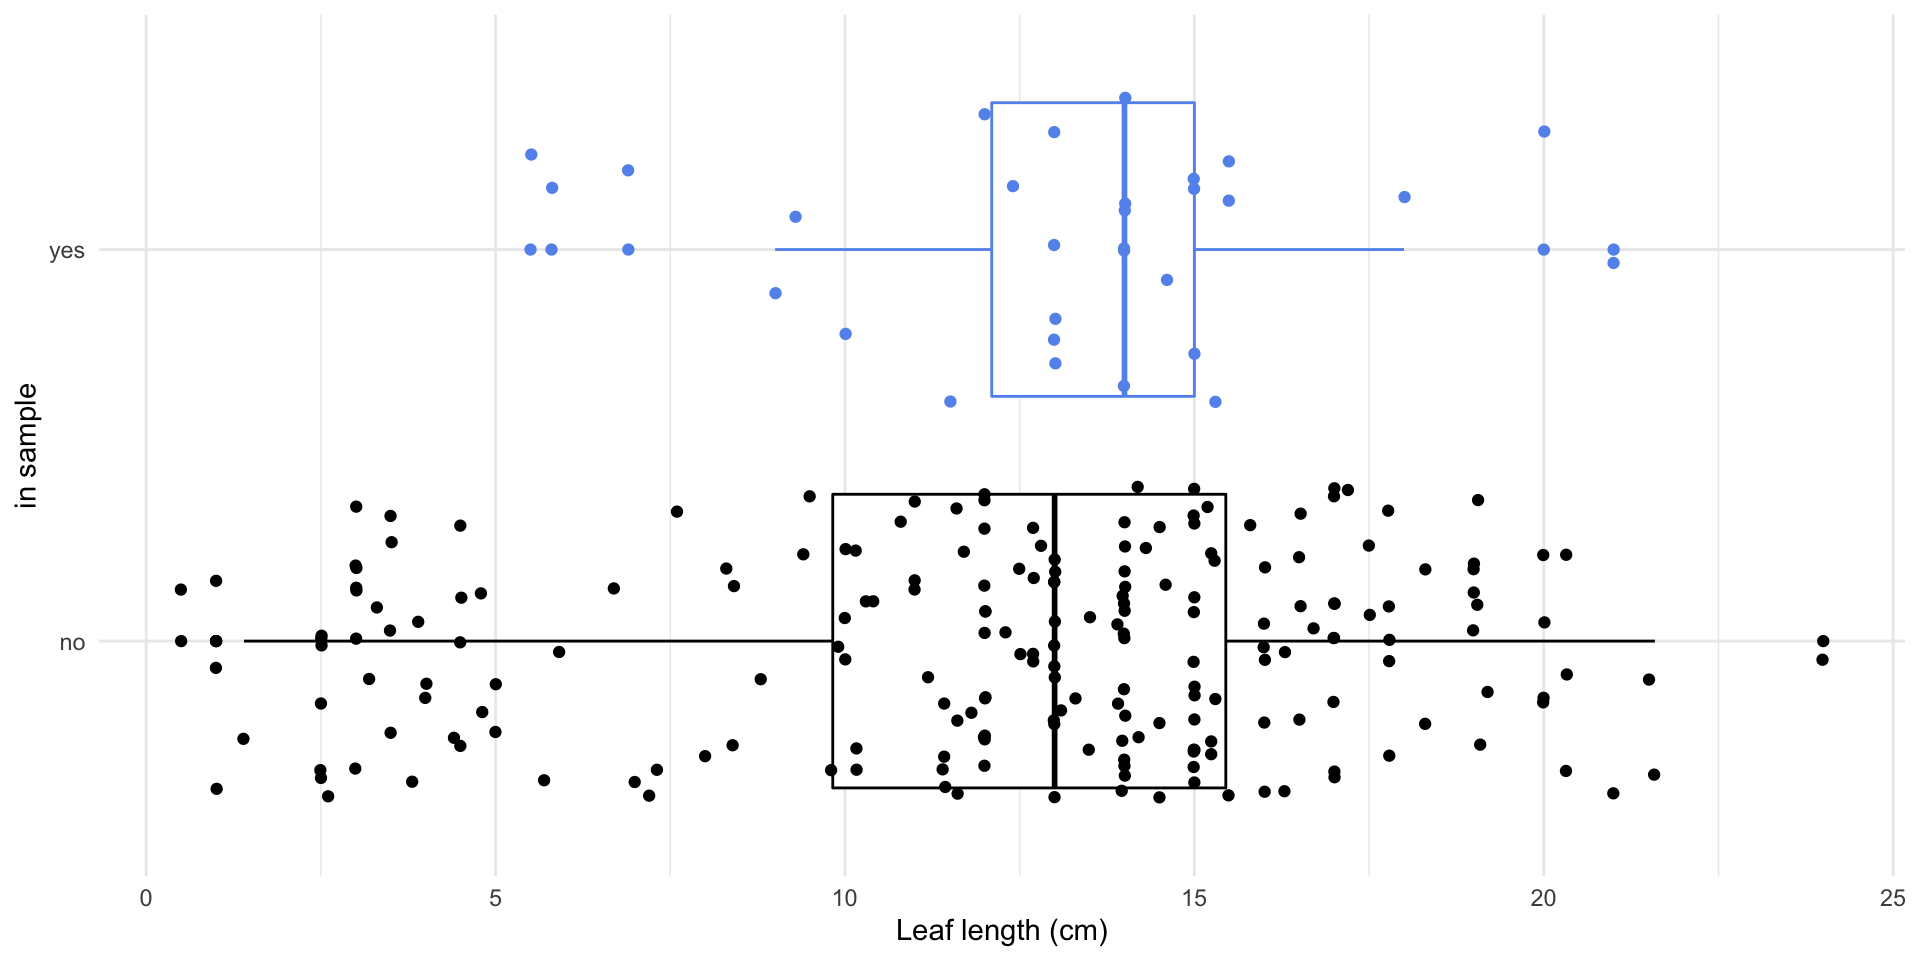
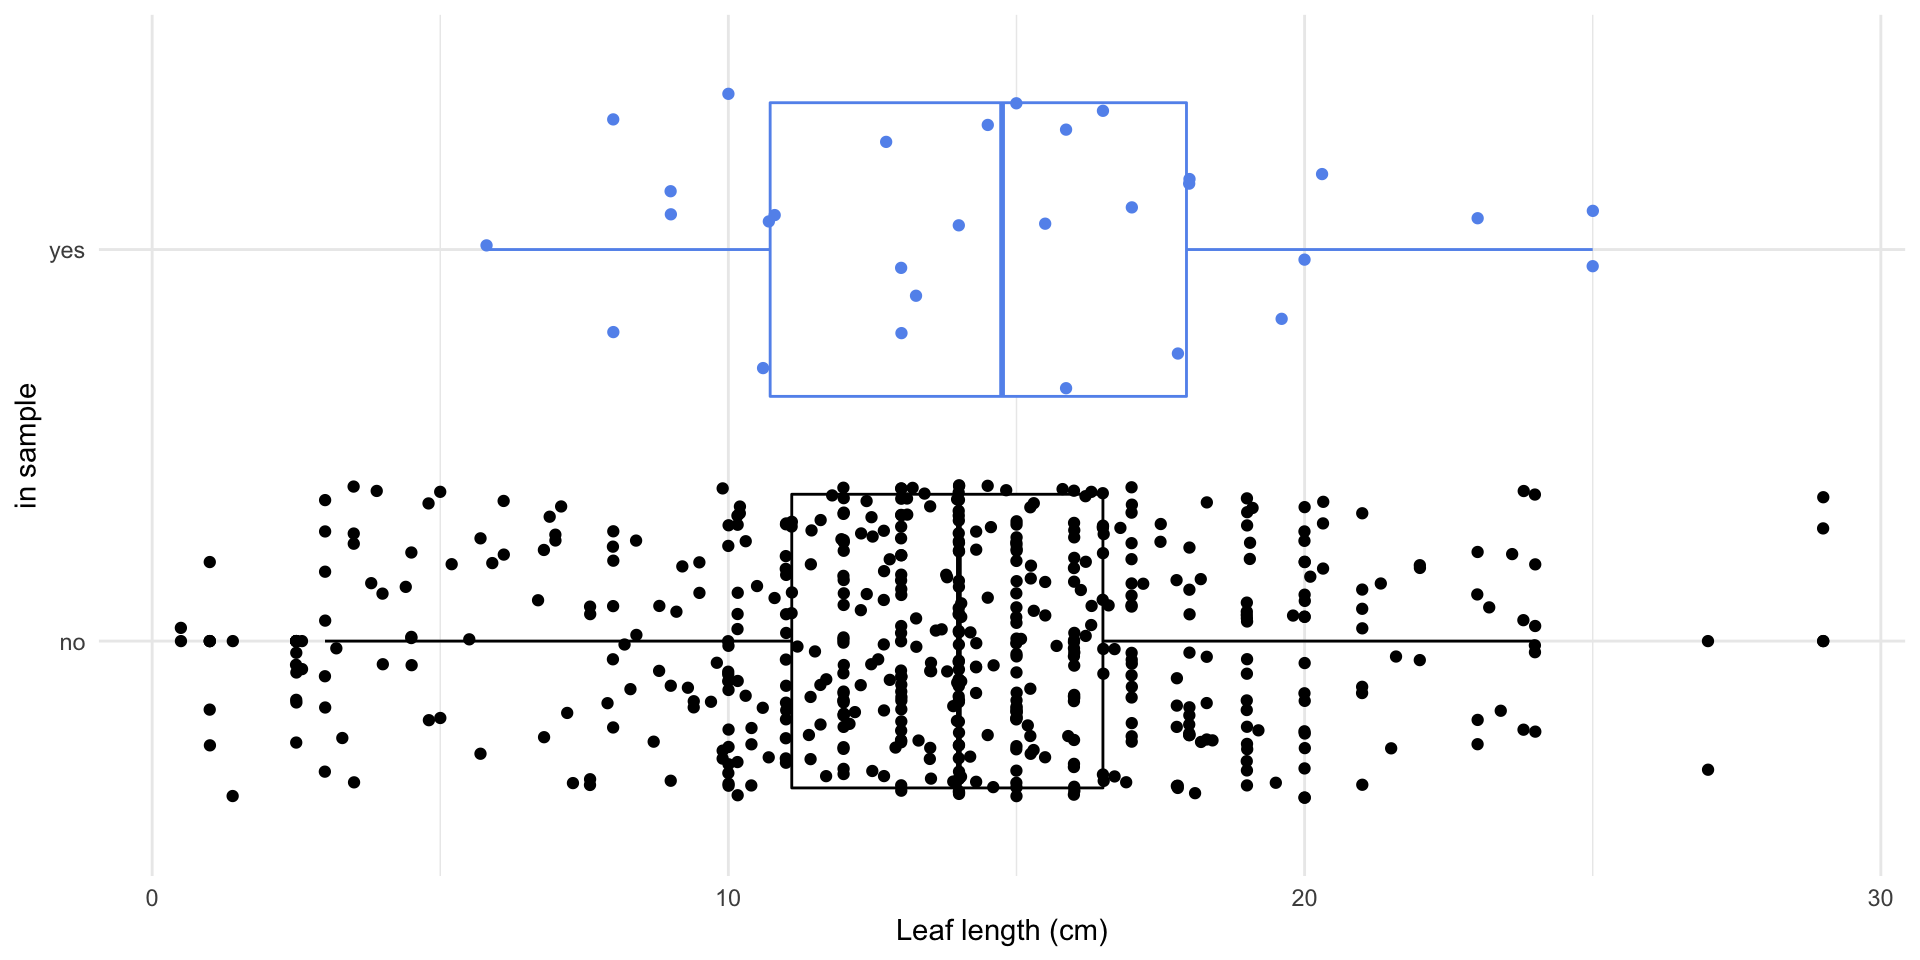
update

diff --git a/08-drawing-inference.html b/08-drawing-inference.html
@@ -401,19 +401,19 @@
 <div class="cell">
 <div class="sourceCode cell-code" id="cb1"><pre class="sourceCode numberSource r number-lines code-with-copy"><code class="sourceCode r"><span id="cb1-1"><a href="#cb1-1"></a>magnolia_data </span></code><button title="Copy to Clipboard" class="code-copy-button"><i class="bi"></i></button></pre></div>
 <div class="cell-output cell-output-stdout">
-<pre><code># A tibble: 30 × 6
-   observation leaf_length leaf_width in_sample sample  each
-         &lt;dbl&gt;       &lt;dbl&gt;      &lt;dbl&gt; &lt;chr&gt;      &lt;dbl&gt; &lt;dbl&gt;
- 1          27        15.3        7.9 no          2.9     30
- 2           6        14          9   no          6.2     30
- 3          28        13          4   no          4.93    30
- 4           1        12          7   no          6.03    30
- 5           2        21          7.5 no          2.07    30
- 6           1        12.4        4.2 yes         1.03    30
- 7          26        18         13   no          6.87    30
- 8          10        15.5        7.5 no          2.33    30
- 9          14        15          6   no          3.47    30
-10           8         6.9        5.3 no          1.27    30
+<pre><code># A tibble: 30 × 3
+   observation leaf_length leaf_width
+         &lt;dbl&gt;       &lt;dbl&gt;      &lt;dbl&gt;
+ 1          28        13         4   
+ 2          15        14        10   
+ 3           7         9         4   
+ 4          15        12.7       3.9 
+ 5          16        14.5       7.6 
+ 6          26        10.7       4.5 
+ 7          23        13.3       4.94
+ 8          23        10.6       6.8 
+ 9          30        10         6   
+10          16        20.3      10.2 
 # … with 20 more rows</code></pre>
 </div>
 </div>
@@ -449,7 +449,7 @@
 <details>
 <summary>Code</summary>
 <div class="sourceCode cell-code" id="cb3"><pre class="sourceCode numberSource r number-lines code-with-copy"><code class="sourceCode r"><span id="cb3-1"><a href="#cb3-1"></a><span class="fu">ggplot</span>(magnolia_data, <span class="fu">aes</span>(<span class="at">x =</span> leaf_length)) <span class="sc">+</span></span>
-<span id="cb3-2"><a href="#cb3-2"></a>  <span class="fu">geom_histogram</span>(<span class="at">bins =</span> <span class="dv">7</span>) <span class="sc">+</span> </span>
+<span id="cb3-2"><a href="#cb3-2"></a>  <span class="fu">geom_histogram</span>(<span class="at">bins =</span> <span class="dv">8</span>) <span class="sc">+</span> </span>
 <span id="cb3-3"><a href="#cb3-3"></a>  <span class="fu">labs</span>(<span class="at">x =</span> <span class="st">"Leaf length (cm)"</span>)</span></code><button title="Copy to Clipboard" class="code-copy-button"><i class="bi"></i></button></pre></div>
 </details>
 <div class="cell-output-display">
@@ -532,7 +532,7 @@
 <pre><code># A tibble: 1 × 1
   mean_length
         &lt;dbl&gt;
-1        13.2</code></pre>
+1        14.8</code></pre>
 </div>
 </div>
 <div class="cell quarto-layout-cell" style="flex-basis: 50.0%;justify-content: center;">
@@ -544,7 +544,7 @@ lm(formula = leaf_length ~ 1, data = magnolia_data)
 
 Coefficients:
 (Intercept)  
-      13.21  </code></pre>
+      14.83  </code></pre>
 </div>
 </div>
 </div>
@@ -582,16 +582,16 @@ Call:
 lm(formula = leaf_length ~ 1, data = magnolia_data)
 
 Residuals:
-   Min     1Q Median     3Q    Max 
- -7.71  -1.11   0.79   1.79   7.79 
+    Min      1Q  Median      3Q     Max 
+-9.0273 -4.1023 -0.0773  3.1227 10.1727 
 
 Coefficients:
             Estimate Std. Error t value Pr(&gt;|t|)    
-(Intercept)  13.2100     0.6456   20.46   &lt;2e-16 ***
+(Intercept)   14.827      0.912   16.26 4.14e-16 ***
 ---
 Signif. codes:  0 '***' 0.001 '**' 0.01 '*' 0.05 '.' 0.1 ' ' 1
 
-Residual standard error: 3.536 on 29 degrees of freedom</code></pre>
+Residual standard error: 4.995 on 29 degrees of freedom</code></pre>
 </div>
 </div>
 </section>
@@ -609,7 +609,7 @@ Residual standard error: 3.536 on 29 degrees of freedom</code></pre>
 </ol>
 <div class="cell">
 <div class="cell-output-display">
-<div class="countdown" id="timer_26cba7e1" data-update-every="1" tabindex="0" style="right:0;bottom:0;">
+<div class="countdown" id="timer_371ec33d" data-update-every="1" tabindex="0" style="right:0;bottom:0;">
 <div class="countdown-controls"><button class="countdown-bump-down">−</button><button class="countdown-bump-up">+</button></div>
 <code class="countdown-time"><span class="countdown-digits minutes">05</span><span class="countdown-digits colon">:</span><span class="countdown-digits seconds">00</span></code>
 </div>
@@ -627,6 +627,11 @@ Residual standard error: 3.536 on 29 degrees of freedom</code></pre>
 <li class="fragment"><span class="math inline">\(t^*\)</span> is the critical value for the <span class="math inline">\(t_{n−1}\)</span> density curve to obtain the desired confidence level</li>
 <li class="fragment">Often we want a <strong>95% confidence level</strong>.</li>
 </ul>
+</section></section>
+<section>
+<section id="fa-laptop-demo" class="title-slide slide level1 center">
+<h1><i class="fa-solid fa-laptop" aria-hidden="true"></i> Demo</h1>
+
 </section>
 <section id="lets-do-it-in-r" class="slide level2 small">
 <h2>Let’s do it in R!</h2>
@@ -639,16 +644,16 @@ Call:
 lm(formula = leaf_length ~ 1, data = magnolia_data)
 
 Residuals:
-   Min     1Q Median     3Q    Max 
- -7.71  -1.11   0.79   1.79   7.79 
+    Min      1Q  Median      3Q     Max 
+-9.0273 -4.1023 -0.0773  3.1227 10.1727 
 
 Coefficients:
             Estimate Std. Error t value Pr(&gt;|t|)    
-(Intercept)  13.2100     0.6456   20.46   &lt;2e-16 ***
+(Intercept)   14.827      0.912   16.26 4.14e-16 ***
 ---
 Signif. codes:  0 '***' 0.001 '**' 0.01 '*' 0.05 '.' 0.1 ' ' 1
 
-Residual standard error: 3.536 on 29 degrees of freedom</code></pre>
+Residual standard error: 4.995 on 29 degrees of freedom</code></pre>
 </div>
 </div>
 <div class="cell">
@@ -672,16 +677,16 @@ Call:
 lm(formula = leaf_length ~ 1, data = magnolia_data)
 
 Residuals:
-   Min     1Q Median     3Q    Max 
- -7.71  -1.11   0.79   1.79   7.79 
+    Min      1Q  Median      3Q     Max 
+-9.0273 -4.1023 -0.0773  3.1227 10.1727 
 
 Coefficients:
             Estimate Std. Error t value Pr(&gt;|t|)    
-(Intercept)  13.2100     0.6456   20.46   &lt;2e-16 ***
+(Intercept)   14.827      0.912   16.26 4.14e-16 ***
 ---
 Signif. codes:  0 '***' 0.001 '**' 0.01 '*' 0.05 '.' 0.1 ' ' 1
 
-Residual standard error: 3.536 on 29 degrees of freedom</code></pre>
+Residual standard error: 4.995 on 29 degrees of freedom</code></pre>
 </div>
 </div>
 <div class="cell">
@@ -705,16 +710,16 @@ Call:
 lm(formula = leaf_length ~ 1, data = magnolia_data)
 
 Residuals:
-   Min     1Q Median     3Q    Max 
- -7.71  -1.11   0.79   1.79   7.79 
+    Min      1Q  Median      3Q     Max 
+-9.0273 -4.1023 -0.0773  3.1227 10.1727 
 
 Coefficients:
             Estimate Std. Error t value Pr(&gt;|t|)    
-(Intercept)  13.2100     0.6456   20.46   &lt;2e-16 ***
+(Intercept)   14.827      0.912   16.26 4.14e-16 ***
 ---
 Signif. codes:  0 '***' 0.001 '**' 0.01 '*' 0.05 '.' 0.1 ' ' 1
 
-Residual standard error: 3.536 on 29 degrees of freedom</code></pre>
+Residual standard error: 4.995 on 29 degrees of freedom</code></pre>
 </div>
 </div>
 <div class="cell">
@@ -735,16 +740,16 @@ Call:
 lm(formula = leaf_length ~ 1, data = magnolia_data)
 
 Residuals:
-   Min     1Q Median     3Q    Max 
- -7.71  -1.11   0.79   1.79   7.79 
+    Min      1Q  Median      3Q     Max 
+-9.0273 -4.1023 -0.0773  3.1227 10.1727 
 
 Coefficients:
             Estimate Std. Error t value Pr(&gt;|t|)    
-(Intercept)  13.2100     0.6456   20.46   &lt;2e-16 ***
+(Intercept)   14.827      0.912   16.26 4.14e-16 ***
 ---
 Signif. codes:  0 '***' 0.001 '**' 0.01 '*' 0.05 '.' 0.1 ' ' 1
 
-Residual standard error: 3.536 on 29 degrees of freedom</code></pre>
+Residual standard error: 4.995 on 29 degrees of freedom</code></pre>
 </div>
 </div>
 <div class="cell">
@@ -766,7 +771,7 @@ Residual standard error: 3.536 on 29 degrees of freedom</code></pre>
 <div class="sourceCode cell-code" id="cb32"><pre class="sourceCode numberSource r number-lines code-with-copy"><code class="sourceCode r"><span id="cb32-1"><a href="#cb32-1"></a><span class="fu">confint</span>(mod) </span></code><button title="Copy to Clipboard" class="code-copy-button"><i class="bi"></i></button></pre></div>
 <div class="cell-output cell-output-stdout">
 <pre><code>            2.5 % 97.5 %
-(Intercept)  11.9   14.5</code></pre>
+(Intercept)    13   16.7</code></pre>
 </div>
 </div>
 </div>
@@ -784,6 +789,201 @@ Residual standard error: 3.536 on 29 degrees of freedom</code></pre>
 <li>Calculate the confidence interval using the <code>confint</code> function</li>
 <li>Interpret this value</li>
 </ol>
+<div class="cell">
+<div class="cell-output-display">
+<div class="countdown" id="timer_de79cb6f" data-update-every="1" tabindex="0" style="right:0;bottom:0;">
+<div class="countdown-controls"><button class="countdown-bump-down">−</button><button class="countdown-bump-up">+</button></div>
+<code class="countdown-time"><span class="countdown-digits minutes">05</span><span class="countdown-digits colon">:</span><span class="countdown-digits seconds">00</span></code>
+</div>
+</div>
+</div>
+</section>
+<section id="magnolia-data-7" class="slide level2 small">
+<h2>Magnolia data</h2>
+<div class="cell">
+<details>
+<summary>Code</summary>
+<div class="sourceCode cell-code" id="cb34"><pre class="sourceCode numberSource r number-lines code-with-copy"><code class="sourceCode r"><span id="cb34-1"><a href="#cb34-1"></a><span class="fu">ggplot</span>(magnolia_data, <span class="fu">aes</span>(<span class="at">x =</span> leaf_length, <span class="at">y =</span> leaf_width)) <span class="sc">+</span></span>
+<span id="cb34-2"><a href="#cb34-2"></a>  <span class="fu">geom_point</span>() <span class="sc">+</span> </span>
+<span id="cb34-3"><a href="#cb34-3"></a>  <span class="fu">labs</span>(<span class="at">x =</span> <span class="st">"Leaf length (cm)"</span>,</span>
+<span id="cb34-4"><a href="#cb34-4"></a>       <span class="at">y =</span> <span class="st">"Leaf width (cm)"</span>)</span></code><button title="Copy to Clipboard" class="code-copy-button"><i class="bi"></i></button></pre></div>
+</details>
+
+</div>
+<img data-src="08-drawing-inference_files/figure-revealjs/unnamed-chunk-46-1.png" width="960" class="r-stretch"></section>
+<section id="magnolia-data-8" class="slide level2 small">
+<h2>Magnolia data</h2>
+<div class="cell">
+<details>
+<summary>Code</summary>
+<div class="sourceCode cell-code" id="cb35"><pre class="sourceCode numberSource r number-lines code-with-copy"><code class="sourceCode r"><span id="cb35-1"><a href="#cb35-1"></a><span class="fu">ggplot</span>(full_magnolia_data, <span class="fu">aes</span>(<span class="at">x =</span> leaf_length, <span class="at">y =</span> leaf_width)) <span class="sc">+</span></span>
+<span id="cb35-2"><a href="#cb35-2"></a>  <span class="fu">geom_point</span>() <span class="sc">+</span> </span>
+<span id="cb35-3"><a href="#cb35-3"></a>  <span class="fu">geom_point</span>(<span class="at">data =</span> magnolia_data, <span class="at">color =</span> <span class="st">"cornflower blue"</span>) <span class="sc">+</span> </span>
+<span id="cb35-4"><a href="#cb35-4"></a>  <span class="fu">labs</span>(<span class="at">x =</span> <span class="st">"Leaf length (cm)"</span>,</span>
+<span id="cb35-5"><a href="#cb35-5"></a>       <span class="at">y =</span> <span class="st">"Leaf width (cm)"</span>)</span></code><button title="Copy to Clipboard" class="code-copy-button"><i class="bi"></i></button></pre></div>
+</details>
+
+</div>
+<img data-src="08-drawing-inference_files/figure-revealjs/unnamed-chunk-48-1.png" width="960" class="r-stretch"></section>
+<section id="magnolia-data-9" class="slide level2 small">
+<h2>Magnolia data</h2>
+<div class="question small">
+<p>What if I want to know the relationship between leaf length and leaf width of the magnolias <strong>on the Mag Quad</strong>?</p>
+</div>
+<div class="fragment">
+<p><br></p>
+<div class="question small">
+<p>How can we quantify how much we’d expect the slope to differ from one random sample to another?</p>
+</div>
+<ul>
+<li class="fragment">We need a measure of <strong>uncertainty</strong></li>
+<li class="fragment">How about the <strong>standard error</strong> of the slope?</li>
+<li class="fragment">The <strong>standard error</strong> is how much we expect <span class="math inline">\(\hat{\beta}_1\)</span> to vary from one random sample to another.</li>
+</ul>
+</div>
+</section>
+<section id="magnolia-data-10" class="slide level2 small">
+<h2>Magnolia data</h2>
+<div class="question small">
+<p>How can we quantify how much we’d expect the slope to differ from one random sample to another?</p>
+</div>
+<div class="cell">
+<div class="sourceCode cell-code" id="cb36"><pre class="sourceCode numberSource r number-lines code-with-copy"><code class="sourceCode r"><span id="cb36-1"><a href="#cb36-1"></a>mod <span class="ot">&lt;-</span> <span class="fu">lm</span>(leaf_width <span class="sc">~</span> leaf_length, <span class="at">data =</span> magnolia_data)</span>
+<span id="cb36-2"><a href="#cb36-2"></a><span class="fu">summary</span>(mod)</span></code><button title="Copy to Clipboard" class="code-copy-button"><i class="bi"></i></button></pre></div>
+<div class="cell-output cell-output-stdout">
+<pre><code>
+Call:
+lm(formula = leaf_width ~ leaf_length, data = magnolia_data)
+
+Residuals:
+   Min     1Q Median     3Q    Max 
+ -6.38  -1.12  -0.33   1.36   5.53 
+
+Coefficients:
+            Estimate Std. Error t value Pr(&gt;|t|)   
+(Intercept)   2.0891     1.3720    1.52    0.139   
+leaf_length   0.2992     0.0878    3.41    0.002 **
+---
+Signif. codes:  0 '***' 0.001 '**' 0.01 '*' 0.05 '.' 0.1 ' ' 1
+
+Residual standard error: 2.36 on 28 degrees of freedom
+Multiple R-squared:  0.293, Adjusted R-squared:  0.268 
+F-statistic: 11.6 on 1 and 28 DF,  p-value: 0.00201</code></pre>
+</div>
+</div>
+</section>
+<section id="magnolia-data-11" class="slide level2 small">
+<h2>Magnolia data</h2>
+<p>We need a <strong>test statistic</strong> that incorporates <span class="math inline">\(\hat{\beta}_1\)</span> and the standard error</p>
+<div class="cell">
+<div class="sourceCode cell-code" id="cb38"><pre class="sourceCode numberSource r number-lines code-with-copy"><code class="sourceCode r"><span id="cb38-1"><a href="#cb38-1"></a>mod <span class="ot">&lt;-</span> <span class="fu">lm</span>(leaf_length <span class="sc">~</span> <span class="dv">1</span>, <span class="at">data =</span> magnolia_data)</span>
+<span id="cb38-2"><a href="#cb38-2"></a><span class="fu">summary</span>(mod)</span></code><button title="Copy to Clipboard" class="code-copy-button"><i class="bi"></i></button></pre></div>
+<div class="cell-output cell-output-stdout">
+<pre><code>
+Call:
+lm(formula = leaf_length ~ 1, data = magnolia_data)
+
+Residuals:
+   Min     1Q Median     3Q    Max 
+-9.027 -4.102 -0.077  3.123 10.173 
+
+Coefficients:
+            Estimate Std. Error t value Pr(&gt;|t|)    
+(Intercept)   14.827      0.912    16.3  4.1e-16 ***
+---
+Signif. codes:  0 '***' 0.001 '**' 0.01 '*' 0.05 '.' 0.1 ' ' 1
+
+Residual standard error: 5 on 29 degrees of freedom</code></pre>
+</div>
+</div>
+<ul>
+<li class="fragment"><span class="math inline">\(t = \frac{\hat{\beta}_1}{SE_{\hat{\beta}_1}}\)</span></li>
+</ul>
+</section>
+<section id="magnolia-data-12" class="slide level2 small">
+<h2>Magnolia data</h2>
+<div class="question small">
+<p>How do we interpret this?</p>
+</div>
+<div class="cell">
+<div class="sourceCode cell-code" id="cb40"><pre class="sourceCode numberSource r number-lines code-with-copy"><code class="sourceCode r"><span id="cb40-1"><a href="#cb40-1"></a>mod <span class="ot">&lt;-</span> <span class="fu">lm</span>(leaf_width <span class="sc">~</span> leaf_length, <span class="at">data =</span> magnolia_data)</span>
+<span id="cb40-2"><a href="#cb40-2"></a><span class="fu">summary</span>(mod)</span></code><button title="Copy to Clipboard" class="code-copy-button"><i class="bi"></i></button></pre></div>
+<div class="cell-output cell-output-stdout">
+<pre><code>
+Call:
+lm(formula = leaf_width ~ leaf_length, data = magnolia_data)
+
+Residuals:
+   Min     1Q Median     3Q    Max 
+ -6.38  -1.12  -0.33   1.36   5.53 
+
+Coefficients:
+            Estimate Std. Error t value Pr(&gt;|t|)   
+(Intercept)   2.0891     1.3720    1.52    0.139   
+leaf_length   0.2992     0.0878    3.41    0.002 **
+---
+Signif. codes:  0 '***' 0.001 '**' 0.01 '*' 0.05 '.' 0.1 ' ' 1
+
+Residual standard error: 2.36 on 28 degrees of freedom
+Multiple R-squared:  0.293, Adjusted R-squared:  0.268 
+F-statistic: 11.6 on 1 and 28 DF,  p-value: 0.00201</code></pre>
+</div>
+</div>
+<ul>
+<li class="fragment">“<span class="math inline">\(\hat{\beta}_1\)</span> is more than 5.8 standard errors above a slope of zero”</li>
+</ul>
+</section>
+<section id="magnolia-data-13" class="slide level2 small">
+<h2>Magnolia data</h2>
+<div class="question small">
+<p>How do we know what values of this statistic are worth paying attention to?</p>
+</div>
+<div class="cell">
+<div class="sourceCode cell-code" id="cb42"><pre class="sourceCode numberSource r number-lines code-with-copy"><code class="sourceCode r"><span id="cb42-1"><a href="#cb42-1"></a>mod <span class="ot">&lt;-</span> <span class="fu">lm</span>(leaf_width <span class="sc">~</span> leaf_length, <span class="at">data =</span> magnolia_data)</span>
+<span id="cb42-2"><a href="#cb42-2"></a><span class="fu">summary</span>(mod)</span></code><button title="Copy to Clipboard" class="code-copy-button"><i class="bi"></i></button></pre></div>
+<div class="cell-output cell-output-stdout">
+<pre><code>
+Call:
+lm(formula = leaf_width ~ leaf_length, data = magnolia_data)
+
+Residuals:
+   Min     1Q Median     3Q    Max 
+ -6.38  -1.12  -0.33   1.36   5.53 
+
+Coefficients:
+            Estimate Std. Error t value Pr(&gt;|t|)   
+(Intercept)   2.0891     1.3720    1.52    0.139   
+leaf_length   0.2992     0.0878    3.41    0.002 **
+---
+Signif. codes:  0 '***' 0.001 '**' 0.01 '*' 0.05 '.' 0.1 ' ' 1
+
+Residual standard error: 2.36 on 28 degrees of freedom
+Multiple R-squared:  0.293, Adjusted R-squared:  0.268 
+F-statistic: 11.6 on 1 and 28 DF,  p-value: 0.00201</code></pre>
+</div>
+</div>
+<ul>
+<li class="fragment">confidence intervals</li>
+<li class="fragment">p-values</li>
+<li class="fragment">Hypothesis testing: <span class="math inline">\(H_0: \beta_1 = 0\)</span> <span class="math inline">\(H_A: \beta_1 \neq 0\)</span></li>
+</ul>
+</section>
+<section id="fa-laptop-application-exercise-2" class="slide level2 small">
+<h2><i class="fa-solid fa-laptop" aria-hidden="true"></i> <code>Application Exercise</code></h2>
+<ol type="1">
+<li>Open <code>appex-08.qmd</code></li>
+<li>Fit the model of <code>leaf_width</code> and <code>leaf_length</code> in your data</li>
+<li>Calculate a confidence interval for the parameter <span class="math inline">\(\beta_1\)</span></li>
+<li>Interpret this value</li>
+</ol>
+<div class="cell">
+<div class="cell-output-display">
+<div class="countdown" id="timer_e86252e6" data-update-every="1" tabindex="0" style="right:0;bottom:0;">
+<div class="countdown-controls"><button class="countdown-bump-down">−</button><button class="countdown-bump-up">+</button></div>
+<code class="countdown-time"><span class="countdown-digits minutes">05</span><span class="countdown-digits colon">:</span><span class="countdown-digits seconds">00</span></code>
+</div>
+</div>
+</div>
 
 <img src="img/favicon.png" class="slide-logo r-stretch"><div class="footer footer-default">
 <p><a href="https://lucymcgowan.com">Dr.&nbsp;Lucy D’Agostino McGowan</a></p>
